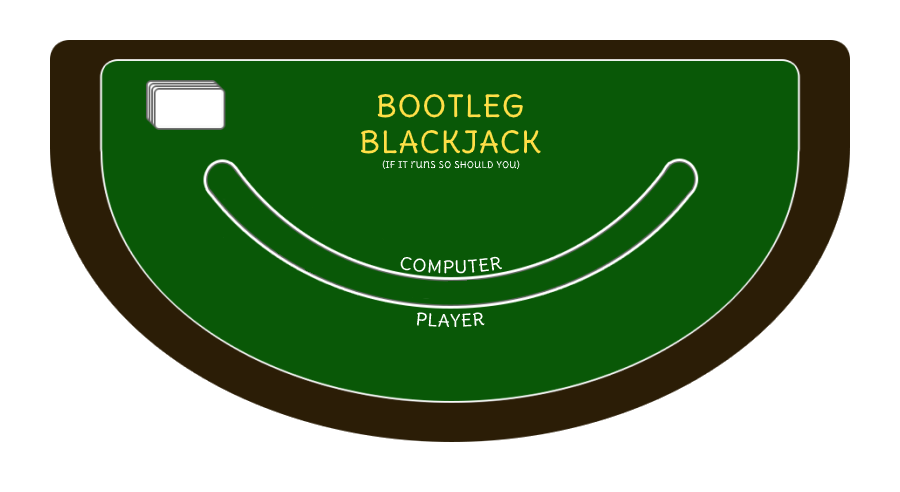
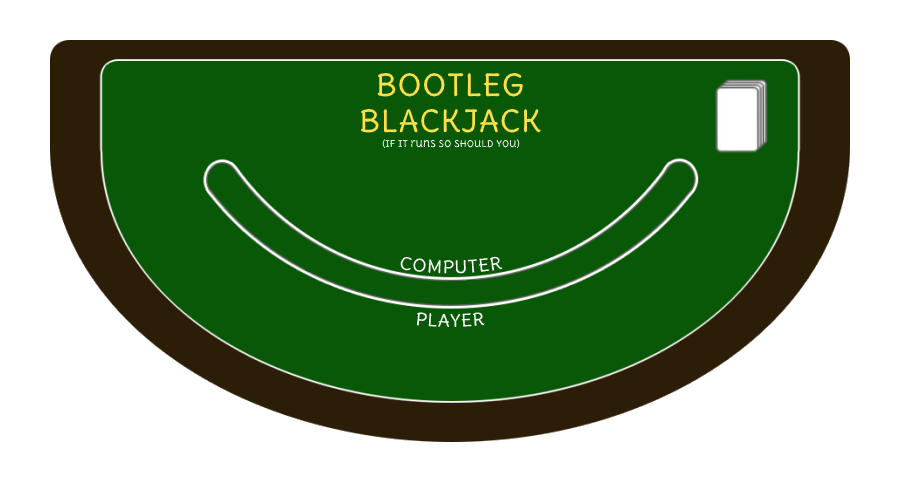
Added refillDeck() to Initialize() so you dont have to hit "new game" before you can start playing as well as some small edits to the Table

Changed region(s): [[0.4044, 0.1524, 0.6222, 0.3659], [0.7778, 0.1524, 0.8711, 0.3354], [0.1556, 0.1524, 0.2489, 0.2744]]

diff --git a/src/sample/Controller.java b/src/sample/Controller.java
@@ -16,6 +16,9 @@ public class Controller extends DataLists{
 //    private TextArea bugfixing;
 
     @FXML
+    private TextArea turnInfo;
+
+    @FXML
     private Text playerBust;
 
     @FXML
@@ -66,6 +69,12 @@ public class Controller extends DataLists{
 
     //--------------------------------------------{ Framework Functions }-----------------------------------------------
 
+    public void initialize(){
+
+        refillDeck();
+
+    }
+
     void refillDeck(){
 
         for (int i = 1; i < 14; i++) {
@@ -85,6 +94,10 @@ public class Controller extends DataLists{
     void clearStoredData(){
 
 //        bugfixing.clear();
+
+        enableButtons();
+
+        turnInfo.setText(null);
 
         hearts.clear();
         clubs.clear();
@@ -140,12 +153,28 @@ public class Controller extends DataLists{
 
         if (computerScore > 21){
             compBust.setText("Computer Bust!");
+            disableButtons();
         }
 
         if (playerScore > 21){
             playerBust.setText("Player Bust!");
+            disableButtons();
         }
 
+    }
+
+    void disableButtons(){
+        playerHitButton.setDisable(true);
+        playerStandButton.setDisable(true);
+        playerHitButton.setVisible(false);
+        playerStandButton.setVisible(false);
+    }
+
+    void enableButtons(){
+        playerHitButton.setDisable(false);
+        playerStandButton.setDisable(false);
+        playerHitButton.setVisible(true);
+        playerStandButton.setVisible(true);
     }
 
     //----------------------------------------------{ Player Functions }------------------------------------------------
@@ -295,10 +324,10 @@ public class Controller extends DataLists{
         checkPlayerScore();
         checkComputerScore();
 
-        if ((playerScore > computerScore) && (playerScore<=21)) {
-            computerHit();
-        } else {
+        if (computerScore >= 17) {
             computerStand();
+        } else if ( ( (playerScore > computerScore) && (playerScore<=21) ) || computerScore < 17 ){
+            computerHit();
         }
 
     }
@@ -313,8 +342,6 @@ public class Controller extends DataLists{
         refillDeck();
 
     }
-
-
 
     @FXML
     void playerHit(ActionEvent event) {
@@ -347,12 +374,16 @@ public class Controller extends DataLists{
 
         checkComputerScore();
 
+        turnInfo.appendText("Computer Hits!\n");
+
     }
 
     void computerStand() {
 
         checkComputerScore();
         checkPlayerScore();
+
+        turnInfo.appendText("Computer Stands!\n");
 
     }
 

diff --git a/src/sample/DataLists.java b/src/sample/DataLists.java
@@ -42,6 +42,4 @@ public class DataLists{
     ArrayList<Integer> intComputerCards = new ArrayList<>();
 
 
-
-
 }

diff --git a/src/sample/Main.java b/src/sample/Main.java
@@ -24,6 +24,7 @@ public class Main extends Application {
     }
 
 
+
 }
 
 
